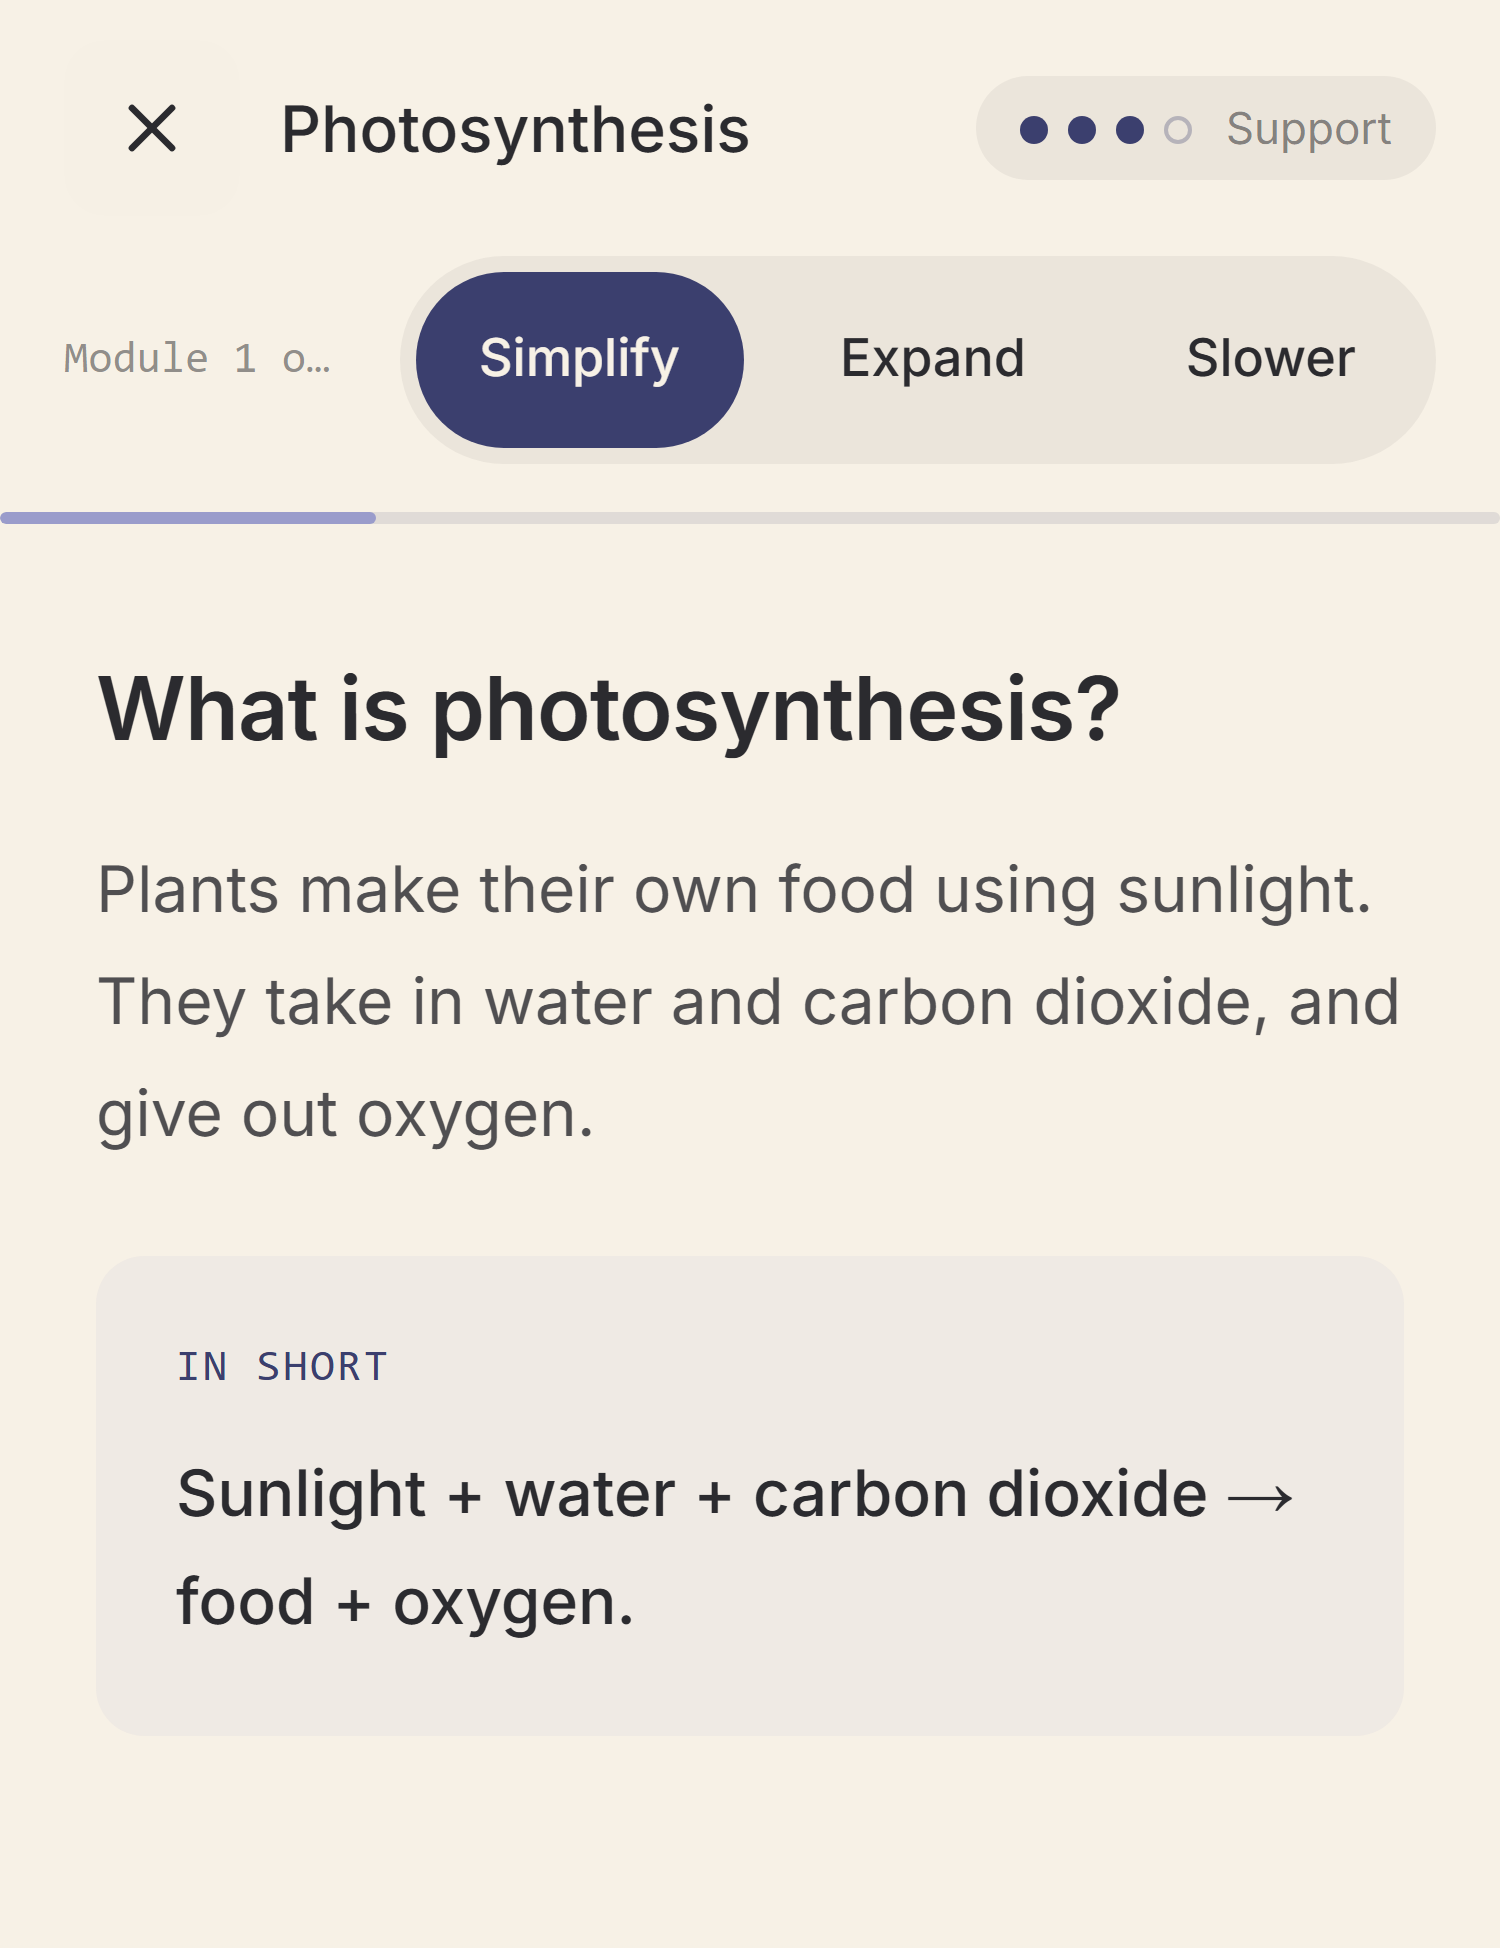
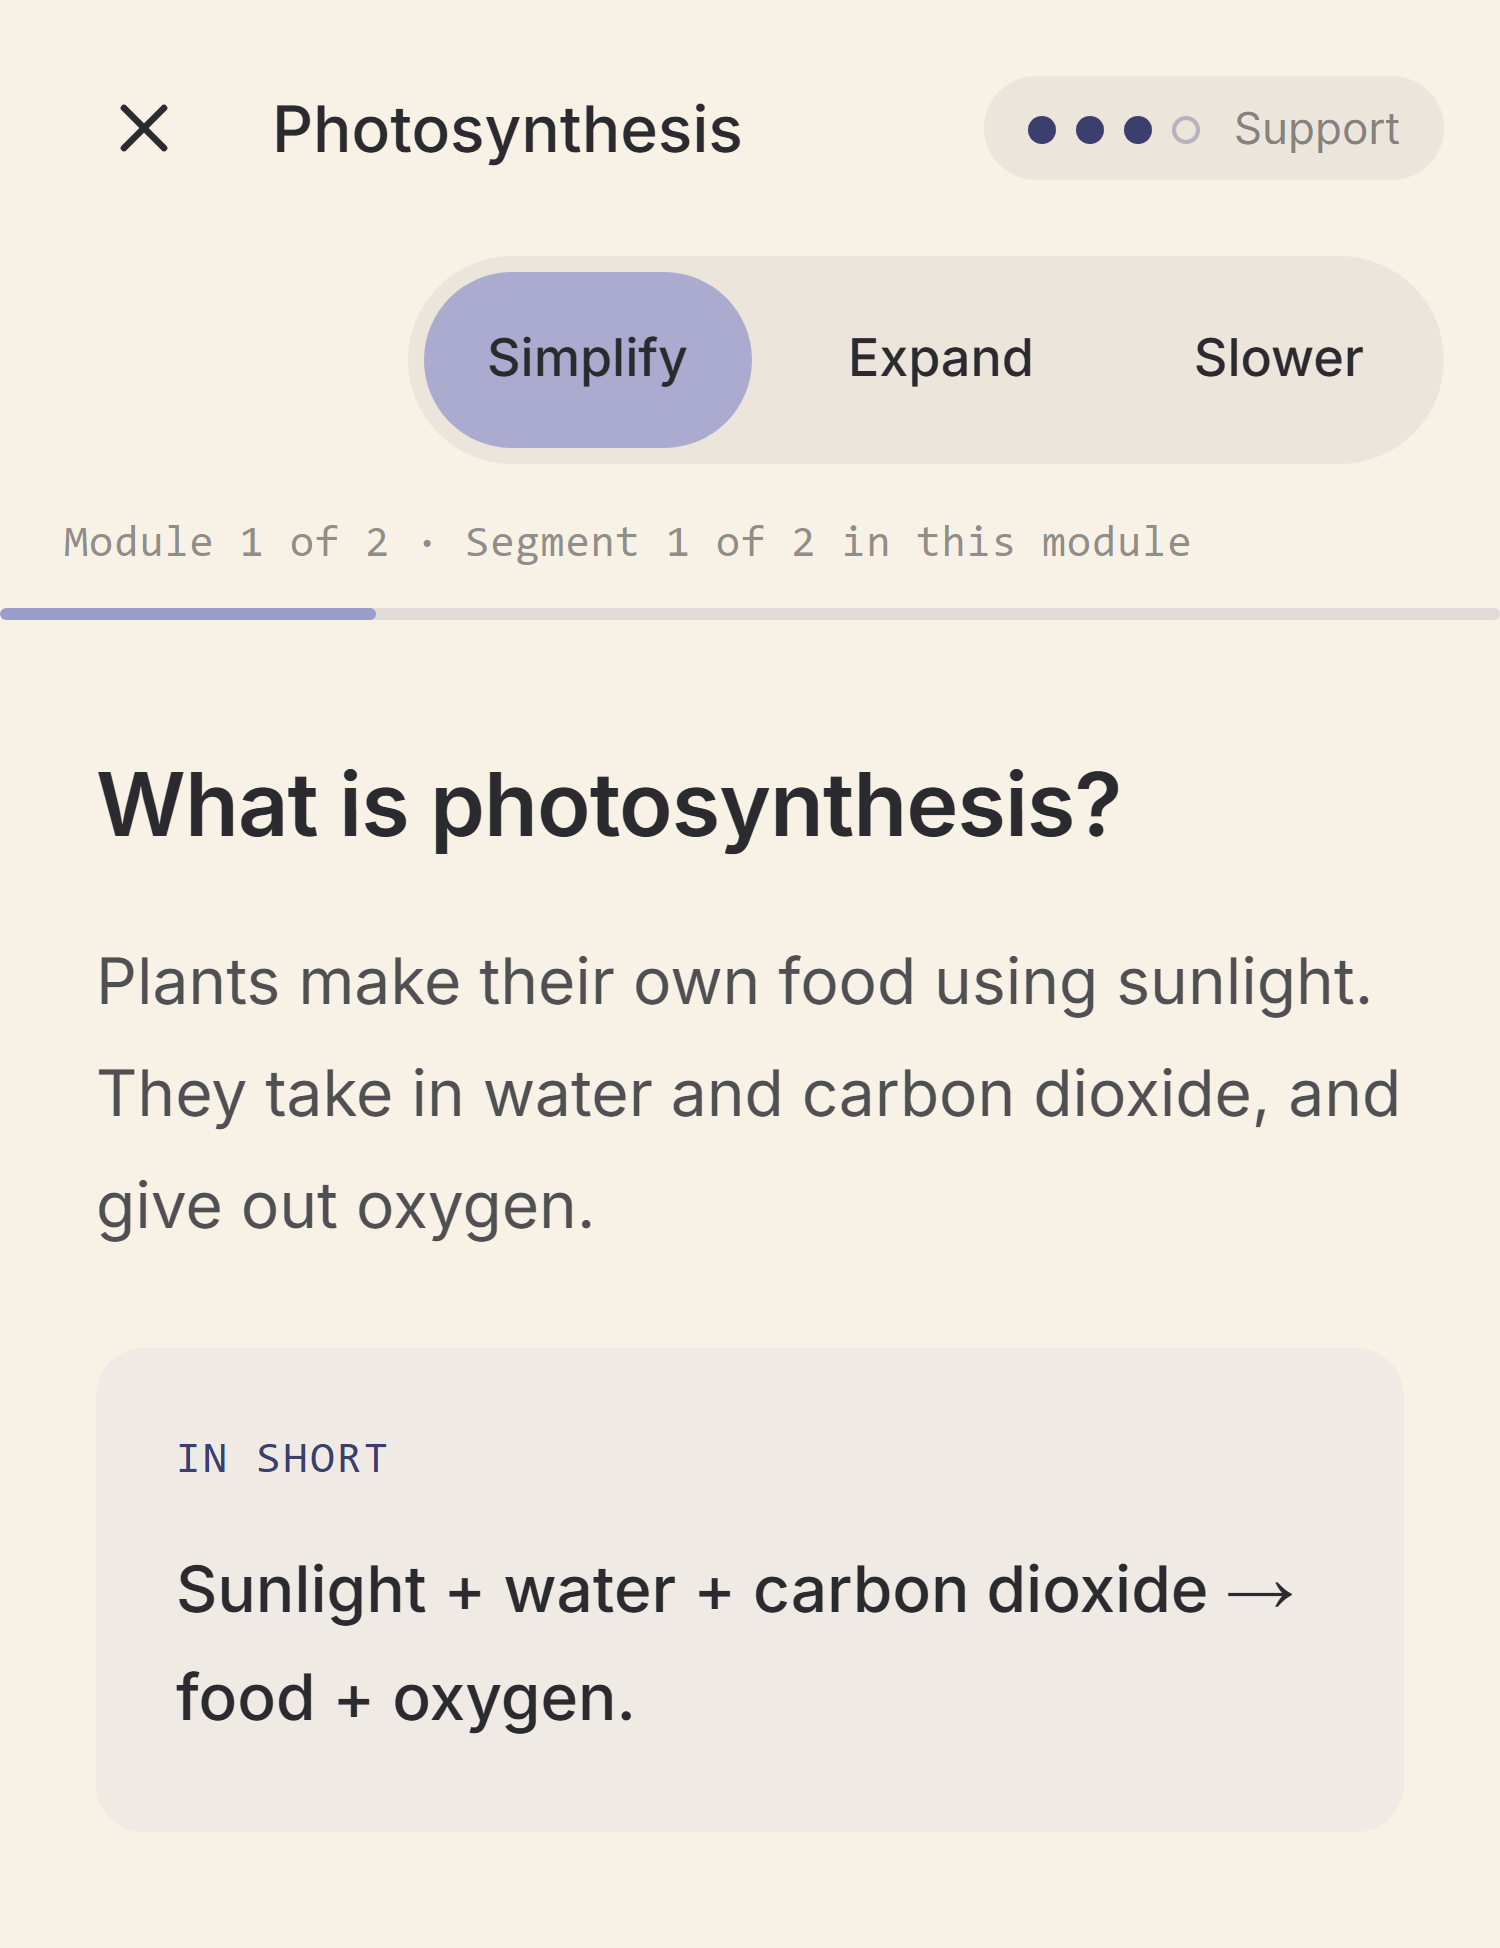
fix(student): density system matches frame - Simplify is the resting system state, violet chip + sparkle

diff --git a/src/components/student/Lesson/LessonPlayer.tsx b/src/components/student/Lesson/LessonPlayer.tsx
@@ -155,12 +155,11 @@ export function LessonPlayer({
   const first = lesson.segments[0];
   const firstPlan = planFor(first.id);
 
-  // Active reading density. The plan's density arrives pre-applied and reads as
-  // the chosen option (navy); the violet "system" look is reserved for live
-  // mid-lesson recommendations (Slice 5).
-  const [density, setDensity] = useState<Density | null>(
-    firstPlan?.density ?? null,
-  );
+  // The student's MANUAL density pick (navy chip). Separate from the system's
+  // standing density — the segment plan's, defaulting to Simplify (frame:
+  // `adaptive ?? "Simplify"`) — which renders as the violet chip and supplies
+  // the resting view until the student overrides. Both can show at once.
+  const [density, setDensity] = useState<Density | null>(null);
   const [modality, setModality] = useState<Modality>(
     openingModality(first, firstPlan?.startModality),
   );
@@ -334,7 +333,9 @@ export function LessonPlayer({
     const nextSegment = lesson.segments[next];
     const nextPlan = planFor(nextSegment.id);
     setIndex(next);
-    setDensity(nextPlan?.density ?? null);
+    // Manual picks don't carry across segments; the new segment rests on its
+    // plan's system density (violet), Simplify when the plan is silent.
+    setDensity(null);
     setModality(openingModality(nextSegment, nextPlan?.startModality));
     setSuggestionSpent(false);
     // A plan-applied density on the new segment is a system-driven adaptation.
@@ -426,10 +427,16 @@ export function LessonPlayer({
     }
   };
 
+  // Frame contract: the manual pick is navy; the system's standing density is
+  // violet (glow-once) and KEEPS showing beside a different manual pick. The
+  // sparkle rides the unfollowed system chip (AdaptiveToggleBar).
+  const systemDensity: Density = segPlan?.density ?? DENSITY.SIMPLIFY;
+  const effectiveDensity: Density = density ?? systemDensity;
   const densitySegments: ToggleSegment[] = DENSITIES.map(({ id, label }) => ({
     id,
     label,
-    state: density === id ? "manual" : "default",
+    state:
+      density === id ? "manual" : systemDensity === id ? "system" : "default",
   }));
 
   const acceptSuggestion = useCallback(() => {
@@ -720,7 +727,7 @@ export function LessonPlayer({
             <SegmentBody
               segment={segment}
               modality={modality}
-              density={density}
+              density={effectiveDensity}
               reading={readingOn}
               attention={attentionOn}
               onReplay={() =>
